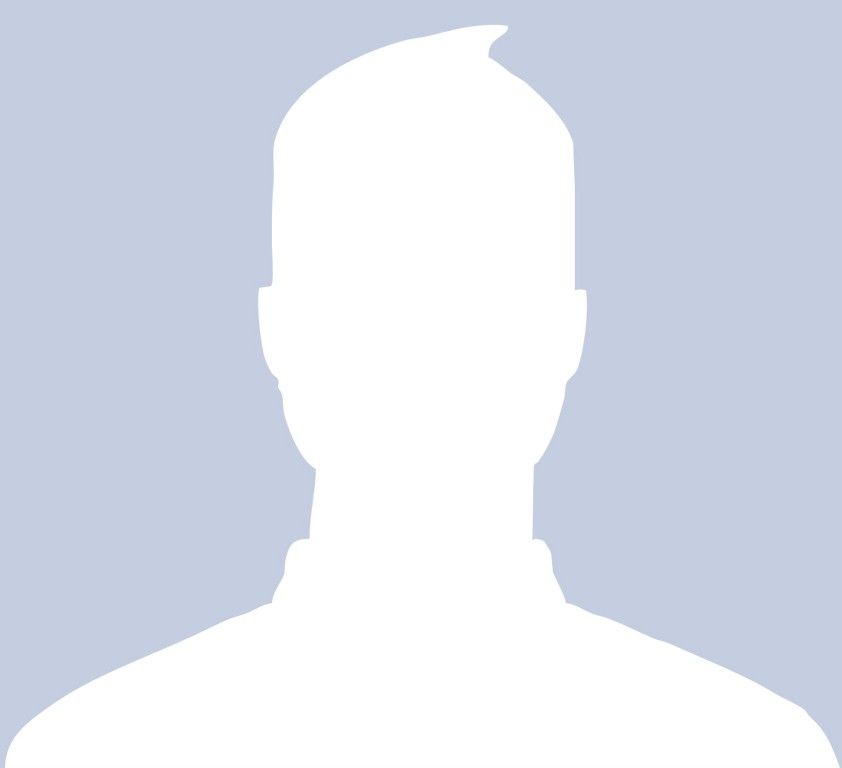
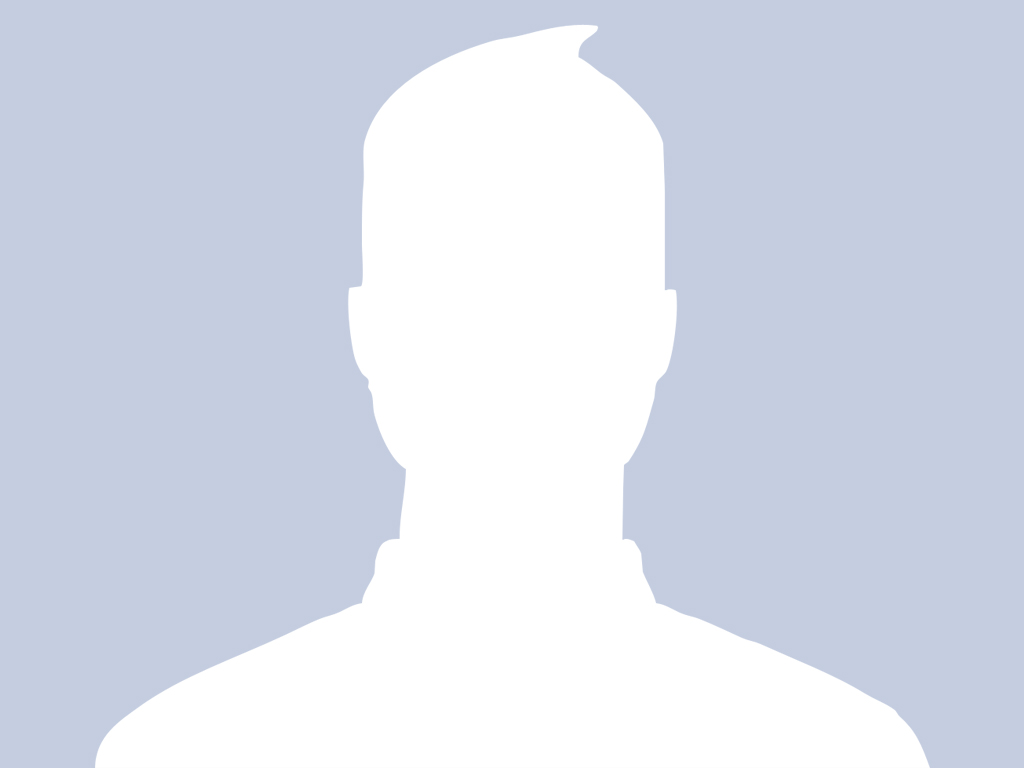
Are elements now become hidden when user is not loged in

Changed region(s): [[0.5558, 0.0312, 1.0, 1.0], [0.0, 0.0938, 0.4014, 1.0], [0.4014, 0.0625, 0.4632, 0.0938]]

diff --git a/app/assets/stylesheets/scaffolds.scss b/app/assets/stylesheets/scaffolds.scss
@@ -19,6 +19,12 @@ pre {
   font-size: 11px;
 }
 
+.thumb1 {
+  object-fit: cover;
+  width:200px;
+  height:200px;
+}
+
 th {
   padding-bottom: 5px;
 }
